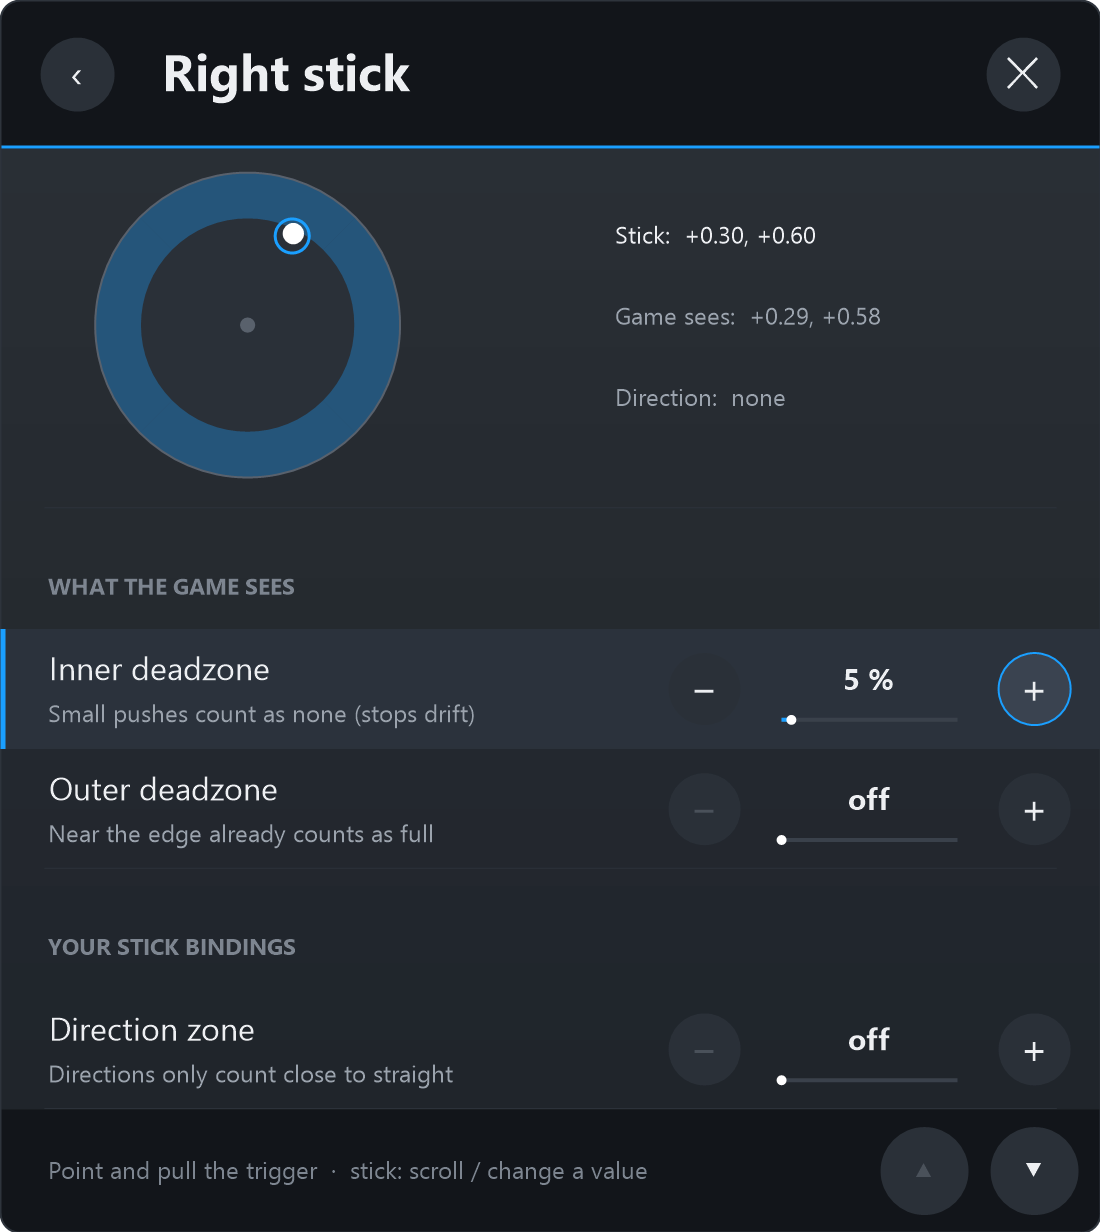
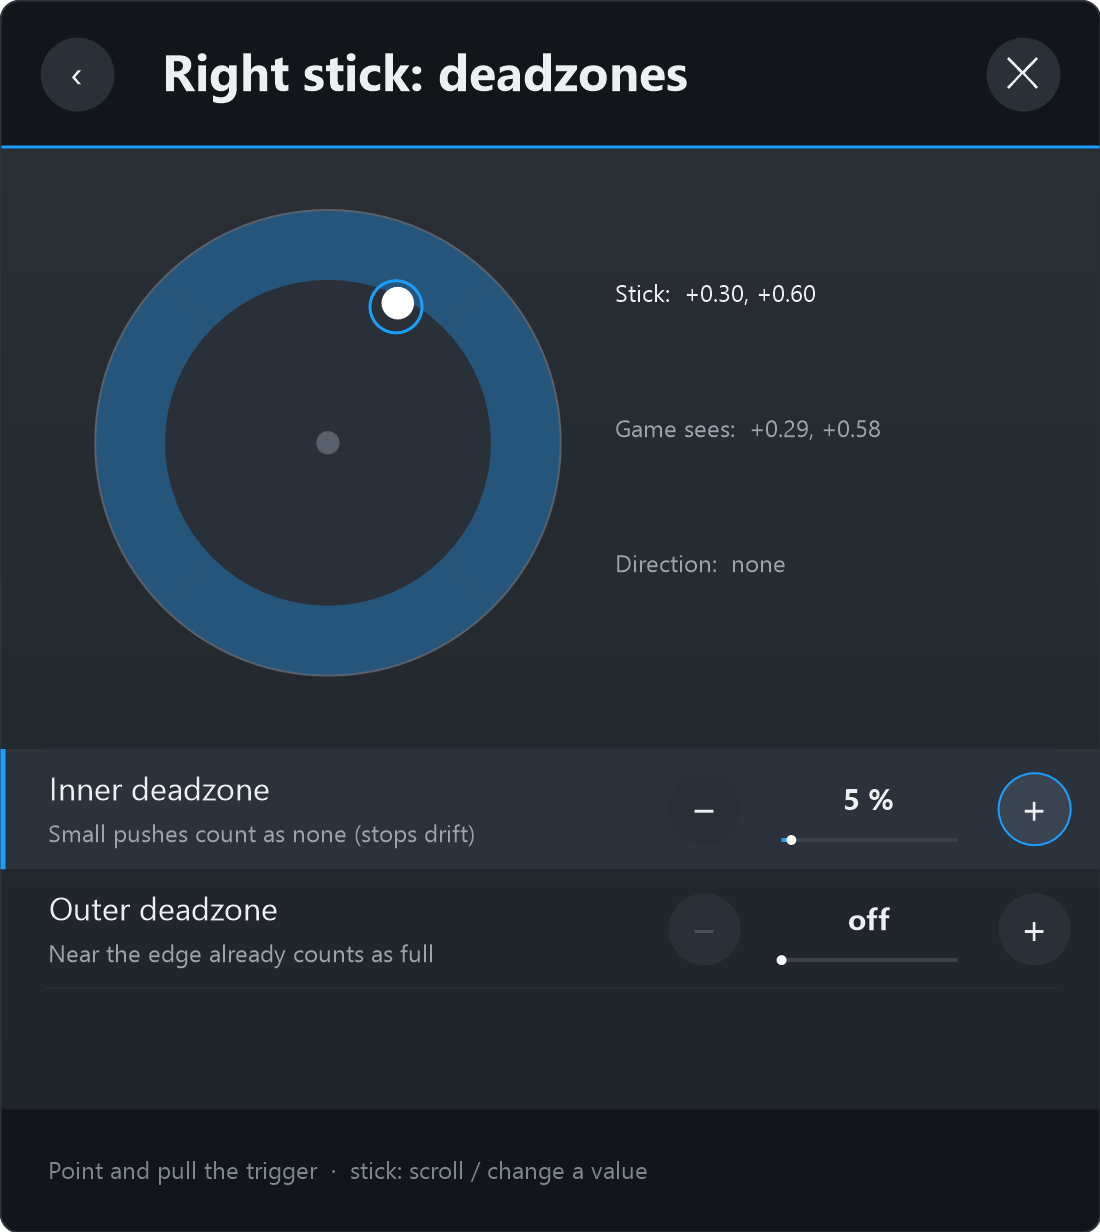
In-game menu: overview spacing, focused stick pages that the sticks don't scroll, double flick bindings

diff --git a/layer/src/menu_pages.cpp b/layer/src/menu_pages.cpp
@@ -218,7 +218,10 @@ static std::vector<PartWay> WaysOf(int comp, ControllerKind kind) {
                  { F_DOWN, Gesture::Press, "Swipe down" }, { F_LEFT, Gesture::Press, "Swipe left" }, { F_RIGHT, Gesture::Press, "Swipe right" } };
     if (comp == C_STICK)
         return { { F_PRESS, Gesture::Press, "Click" },   { F_UP, Gesture::Press, "Push up" },      { F_DOWN, Gesture::Press, "Push down" },
-                 { F_LEFT, Gesture::Press, "Push left" }, { F_RIGHT, Gesture::Press, "Push right" }, { F_TOUCH, Gesture::Press, "Touch" } };
+                 { F_LEFT, Gesture::Press, "Push left" }, { F_RIGHT, Gesture::Press, "Push right" }, { F_TOUCH, Gesture::Press, "Touch" },
+                 // a double flick, then held: lasts while you keep pushing (sprint on a double flick forward)
+                 { F_UP, Gesture::DoubleTapHold, "Double flick up" },     { F_DOWN, Gesture::DoubleTapHold, "Double flick down" },
+                 { F_LEFT, Gesture::DoubleTapHold, "Double flick left" }, { F_RIGHT, Gesture::DoubleTapHold, "Double flick right" } };
     if (comp == C_THUMBREST) return { { F_TOUCH, Gesture::Press, "Touch" }, { F_TOUCH, Gesture::DoubleTap, "Double-tap" } };
     const char* press = comp == C_TRIGGER ? "Pull" : comp == C_GRIP ? "Squeeze" : "Press";
     bool frame = kind == ControllerKind::SteamFrame;
@@ -275,6 +278,10 @@ MenuPage PartPage(Engine& e, InGameMenu& m, int hand, int comp) {
                                              b.name = InputWords(id);
                                              b.gesture = way.gesture;
                                              b.block = way.feat == F_TOUCH ? BindingBlock::None : BindingBlock::Trigger;
+                                             if (way.gesture == Gesture::DoubleTapHold) {
+                                                 b.block = BindingBlock::None; // the game still gets the push (you keep walking)
+                                                 b.doubleTapMs = 350;
+                                             }
                                              b.action.type = ActType::Key;
                                              b.action.mode = ActMode::Hold;
                                              int index = 0;
@@ -472,6 +479,7 @@ MenuPage BindingDetail(Engine& e, InGameMenu& m, int index) {
 MenuPage TestControllers(Engine& e, InGameMenu& m) {
     MenuPage p;
     p.title = "Test controllers";
+    p.stickFree = true;
     p.rows.push_back(MenuRow::Live(LiveKind::BothControllers, 1, 4));
     p.rows.push_back(MenuRow::Note("Press, touch and push things: they light up here", "A ring = touched, filled = pressed. The white dot is the stick."));
     for (int hand : { 1, 0 })
@@ -480,25 +488,37 @@ MenuPage TestControllers(Engine& e, InGameMenu& m) {
     return p;
 }
 
-MenuPage StickOptions(Engine& e, InGameMenu& m, int hand) {
+// One stick setting at a time, with the stick big and live above it (the sticks don't scroll these pages).
+static MenuPage StickPage(const char* title, int hand) {
     MenuPage p;
-    p.title = hand ? "Right stick" : "Left stick";
+    p.title = title;
+    p.stickFree = true;
+    p.rows.push_back(MenuRow::Live(LiveKind::Stick, hand, 5));
+    return p;
+}
+
+static MenuRow ShareRow(const char* label, const char* detail, float* field) {
+    MenuRow r = MenuRow::Number(label, detail, [field] { return *field; }, [field](float v) { *field = v; }, 0, 0.9f, 0.01f);
+    r.scale = 100;
+    r.unit = "%";
+    r.atMin = "off";
+    return r;
+}
+
+static MenuPage StickDeadzones(Engine& e, int hand) {
+    MenuPage p = StickPage(hand ? "Right stick: deadzones" : "Left stick: deadzones", hand);
     StickShape* s = &e.prof->sticks[hand];
-    auto share = [&m](const char* label, const char* detail, float* field) {
-        MenuRow r = MenuRow::Number(label, detail, [field] { return *field; }, [field, &m](float v) { *field = v; }, 0, 0.9f, 0.01f);
-        r.scale = 100;
-        r.unit = "%";
-        r.atMin = "off";
-        return r;
-    };
-    p.rows.push_back(MenuRow::Live(LiveKind::Stick, hand, 3));
-    p.rows.push_back(MenuRow::Heading("What the game sees"));
-    p.rows.push_back(share("Inner deadzone", "Small pushes count as none (stops drift)", &s->innerDeadzone));
-    p.rows.push_back(share("Outer deadzone", "Near the edge already counts as full", &s->outerDeadzone));
-    p.rows.push_back(MenuRow::Heading("Your stick bindings"));
+    p.rows.push_back(ShareRow("Inner deadzone", "Small pushes count as none (stops drift)", &s->innerDeadzone));
+    p.rows.push_back(ShareRow("Outer deadzone", "Near the edge already counts as full", &s->outerDeadzone));
+    return p;
+}
+
+static MenuPage StickDirections(Engine& e, int hand) {
+    MenuPage p = StickPage(hand ? "Right stick: directions" : "Left stick: directions", hand);
+    StickShape* s = &e.prof->sticks[hand];
     MenuRow zone = MenuRow::Number("Direction zone", "Directions only count close to straight",
                                    [s] { return s->directionAngleDeg; }, [s](float v) { s->directionAngleDeg = v; }, 0, 45, 5);
-    zone.unit = "\xC2\xB0";
+    zone.unit = "Â°";
     zone.atMin = "off";
     p.rows.push_back(zone);
     MenuRow pressAt = MenuRow::Number("Direction counts at", "How far to push (both sticks)", [&e] { return e.prof->stickOn; },
@@ -510,6 +530,17 @@ MenuPage StickOptions(Engine& e, InGameMenu& m, int hand) {
     pressAt.scale = 100;
     pressAt.unit = "%";
     p.rows.push_back(pressAt);
+    return p;
+}
+
+MenuPage StickOptions(Engine& e, InGameMenu& m, int hand) {
+    MenuPage p = StickPage(hand ? "Right stick" : "Left stick", hand);
+    p.rows.push_back(MenuRow::Link("Deadzones", "What the game sees: drift and the edge",
+                                   [&e, &m, hand] { m.Push([&e, hand] { return StickDeadzones(e, hand); }); }));
+    p.rows.push_back(MenuRow::Link("Directions", "For your Up / Down / Left / Right bindings",
+                                   [&e, &m, hand] { m.Push([&e, hand] { return StickDirections(e, hand); }); }));
+    p.rows.push_back(MenuRow::Link("Bindings", "Click, push, double flick...",
+                                   [&e, &m, hand] { m.Push([&e, &m, hand] { return PartPage(e, m, hand, C_STICK); }); }));
     return p;
 }
 

diff --git a/layer/test/test_menu.cpp b/layer/test/test_menu.cpp
@@ -155,6 +155,7 @@ void TestInGameMenu() {
 
     // Stick options: + five times on the inner deadzone.
     CHECK(d.PressRow("Right stick") && e.menuView.title == "Right stick", "menu: pointing at a link and pulling the trigger opens it");
+    CHECK(d.PressRow("Deadzones") && e.menuView.title == "Right stick: deadzones", "menu: the stick's deadzones on their own page");
     int inner = d.Row("Inner deadzone");
     CHECK(inner >= 0 && e.menuView.rows[inner].value == "off" && !e.menuView.rows[inner].canLess, "menu: a number at its minimum shows 'off', - is greyed");
     for (int i = 0; i < 5; i++)
@@ -171,6 +172,12 @@ void TestInGameMenu() {
     d.Step(1.2);
     CHECK(e.menuSaveRequested, "menu: saved a moment after the last change");
     e.menuSaveRequested = false;
+    f.h[1].sy = -1.f; // the stick being tested doesn't scroll or change the page
+    d.Step(0.5);
+    CHECK(e.menuView.first == 0 && std::fabs(p->sticks[1].innerDeadzone - 0.05f) < 1e-4f, "menu: the sticks don't scroll a stick page");
+    f.h[1].sy = 0.f;
+    d.Step(0.1);
+    d.Press(MenuPart::Back);
     CHECK(d.Press(MenuPart::Back) && e.menuView.title.rfind("Edit bindings", 0) == 0, "menu: Back returns to the home page");
 
     // A new binding: press the button, then type the key on the VR keyboard.

diff --git a/layer/src/in_game_menu.cpp b/layer/src/in_game_menu.cpp
@@ -118,11 +118,12 @@ void InGameMenu::BuildView() {
     float scale = page_.scale > 0 ? page_.scale : 1.f;
     float width = (page_.width > 0 ? page_.width : kMenuWidth) * scale;
     PlaceAt(page_.distance > 0 ? page_.distance : kMenuDistance);
-    same = same && v.w == width && v.scale == scale;
+    same = same && v.w == width && v.scale == scale && v.stickFree == page_.stickFree;
     if (same) return;
     v.w = width;
     v.h = kMenuHeight * scale;
     v.scale = scale;
+    v.stickFree = page_.stickFree;
     v.rows = std::move(rows);
     v.title = page_.title;
     v.status = status;
@@ -254,7 +255,7 @@ void InGameMenu::UpdatePointing() {
 // The pointing hand's stick: up / down scrolls, left / right moves the number or choice pointed at.
 void InGameMenu::UpdateStick(float dt) {
     int g = run_.uiHand;
-    if (g < 0 || run_.inputDone) return;
+    if (g < 0 || run_.inputDone || page_.stickFree) return;
     MenuView& v = e.menuView;
     float sx = e.fr.h[g].sx, sy = e.fr.h[g].sy;
     if (std::fabs(sy) > 0.6f && std::fabs(sy) > std::fabs(sx) && e.now >= run_.scrollAt) {

diff --git a/layer/src/menu.h b/layer/src/menu.h
@@ -92,6 +92,7 @@ struct MenuPage {
     float width = 0; // metres at scale 1; 0 = the usual width (the overview is wider)
     float scale = 1;    // the whole page bigger (same look, same pixels per design unit)
     float distance = 0; // metres from the eyes; 0 = the usual 0.6
+    bool stickFree = false; // the sticks are being tested here: they don't scroll the page or change values
 };
 constexpr float kMenuWidth = 0.5f, kMenuHeight = 0.56f; // the usual panel size, metres
 constexpr float kMenuDistance = 0.6f;                   // the usual distance from the eyes
@@ -136,6 +137,7 @@ struct MenuView {
     XrPosef pose{ { 0, 0, 0, 1 }, { 0, 0, 0 } };
     float w = 0.5f, h = 0.56f; // metres
     float scale = 1;           // the page drawn bigger: w / scale is its design width
+    bool stickFree = false;    // the sticks are being tested: they don't scroll (the footer says so)
     std::string title;
     std::string status; // a line at the bottom: what to do now ("Press the button you want...")
     bool canBack = false;

diff --git a/layer/src/menu.cpp b/layer/src/menu.cpp
@@ -179,8 +179,9 @@ void OverviewLayout(const MenuView& view, const MenuViewRow& row, float y, float
     const float aspect = view.h > 0 ? view.w / view.h : 1.f;
     const float lineH = 0.03f, gap = 0.012f, captionH = 0.045f;
     for (int hand = 0; hand < 2; hand++) {
-        float x0 = 0.01f + hand * 0.495f;
-        const float colW = 0.115f, topW = 0.15f, sideW = 0.1f, gapU = 0.005f;
+        // the two hands with a clear gap between them, so the middle tags don't run into each other
+        float x0 = hand == 0 ? 0.005f : 0.517f;
+        const float colW = 0.105f, topW = 0.15f, sideW = 0.1f, gapU = 0.006f;
         float picTop = y + captionH, picH = h - captionH - 0.01f;
         out.caption[hand] = { x0, y + 0.005f, 0.48f, captionH, {} };
         out.top[hand] = { x0 + colW + gapU, picTop, topW, picH, {} };

diff --git a/MENU_NOTES.md b/MENU_NOTES.md
@@ -35,6 +35,11 @@ only when the user says so.
   editor's pick (controller_picture.txt, read every 2 s) upgrades Touch to TouchPlus / TouchPro. (2) Overview bigger and
   further: MenuPage scale 2.4 + distance 1.4 m (MenuView.scale keeps texture pixels the same); other pages 0.6 m.
   (3) Menu opens toward the playspace's front (STAGE space -Z, yaw only) at the head; falls back to head yaw.
+- Headset test 2 fixes (2026-11-23): overview hands spaced apart (x0 0.005 / 0.517, tag col 0.105) so middle tags
+  don't touch; stick pages split: StickOptions = hub (Deadzones / Directions / Bindings) with a big live stick
+  (span 5); MenuPage/MenuView.stickFree = sticks don't scroll or change values (also Test controllers), footer says so.
+  In-game stick ways now include Double flick up/down/left/right (DoubleTapHold, block none, 350 ms), like the editor's
+  "+ Add..." on a direction card.
 - Open ideas: overview pictures could be bigger (spare height); long tag text gets cut; highlight the part on PartPage.
 - Pictures: layer/menu_overview.png, menu_part.png, menu_binding.png, keyboard_binding.png, menu_test_frame.png (tests).
 
